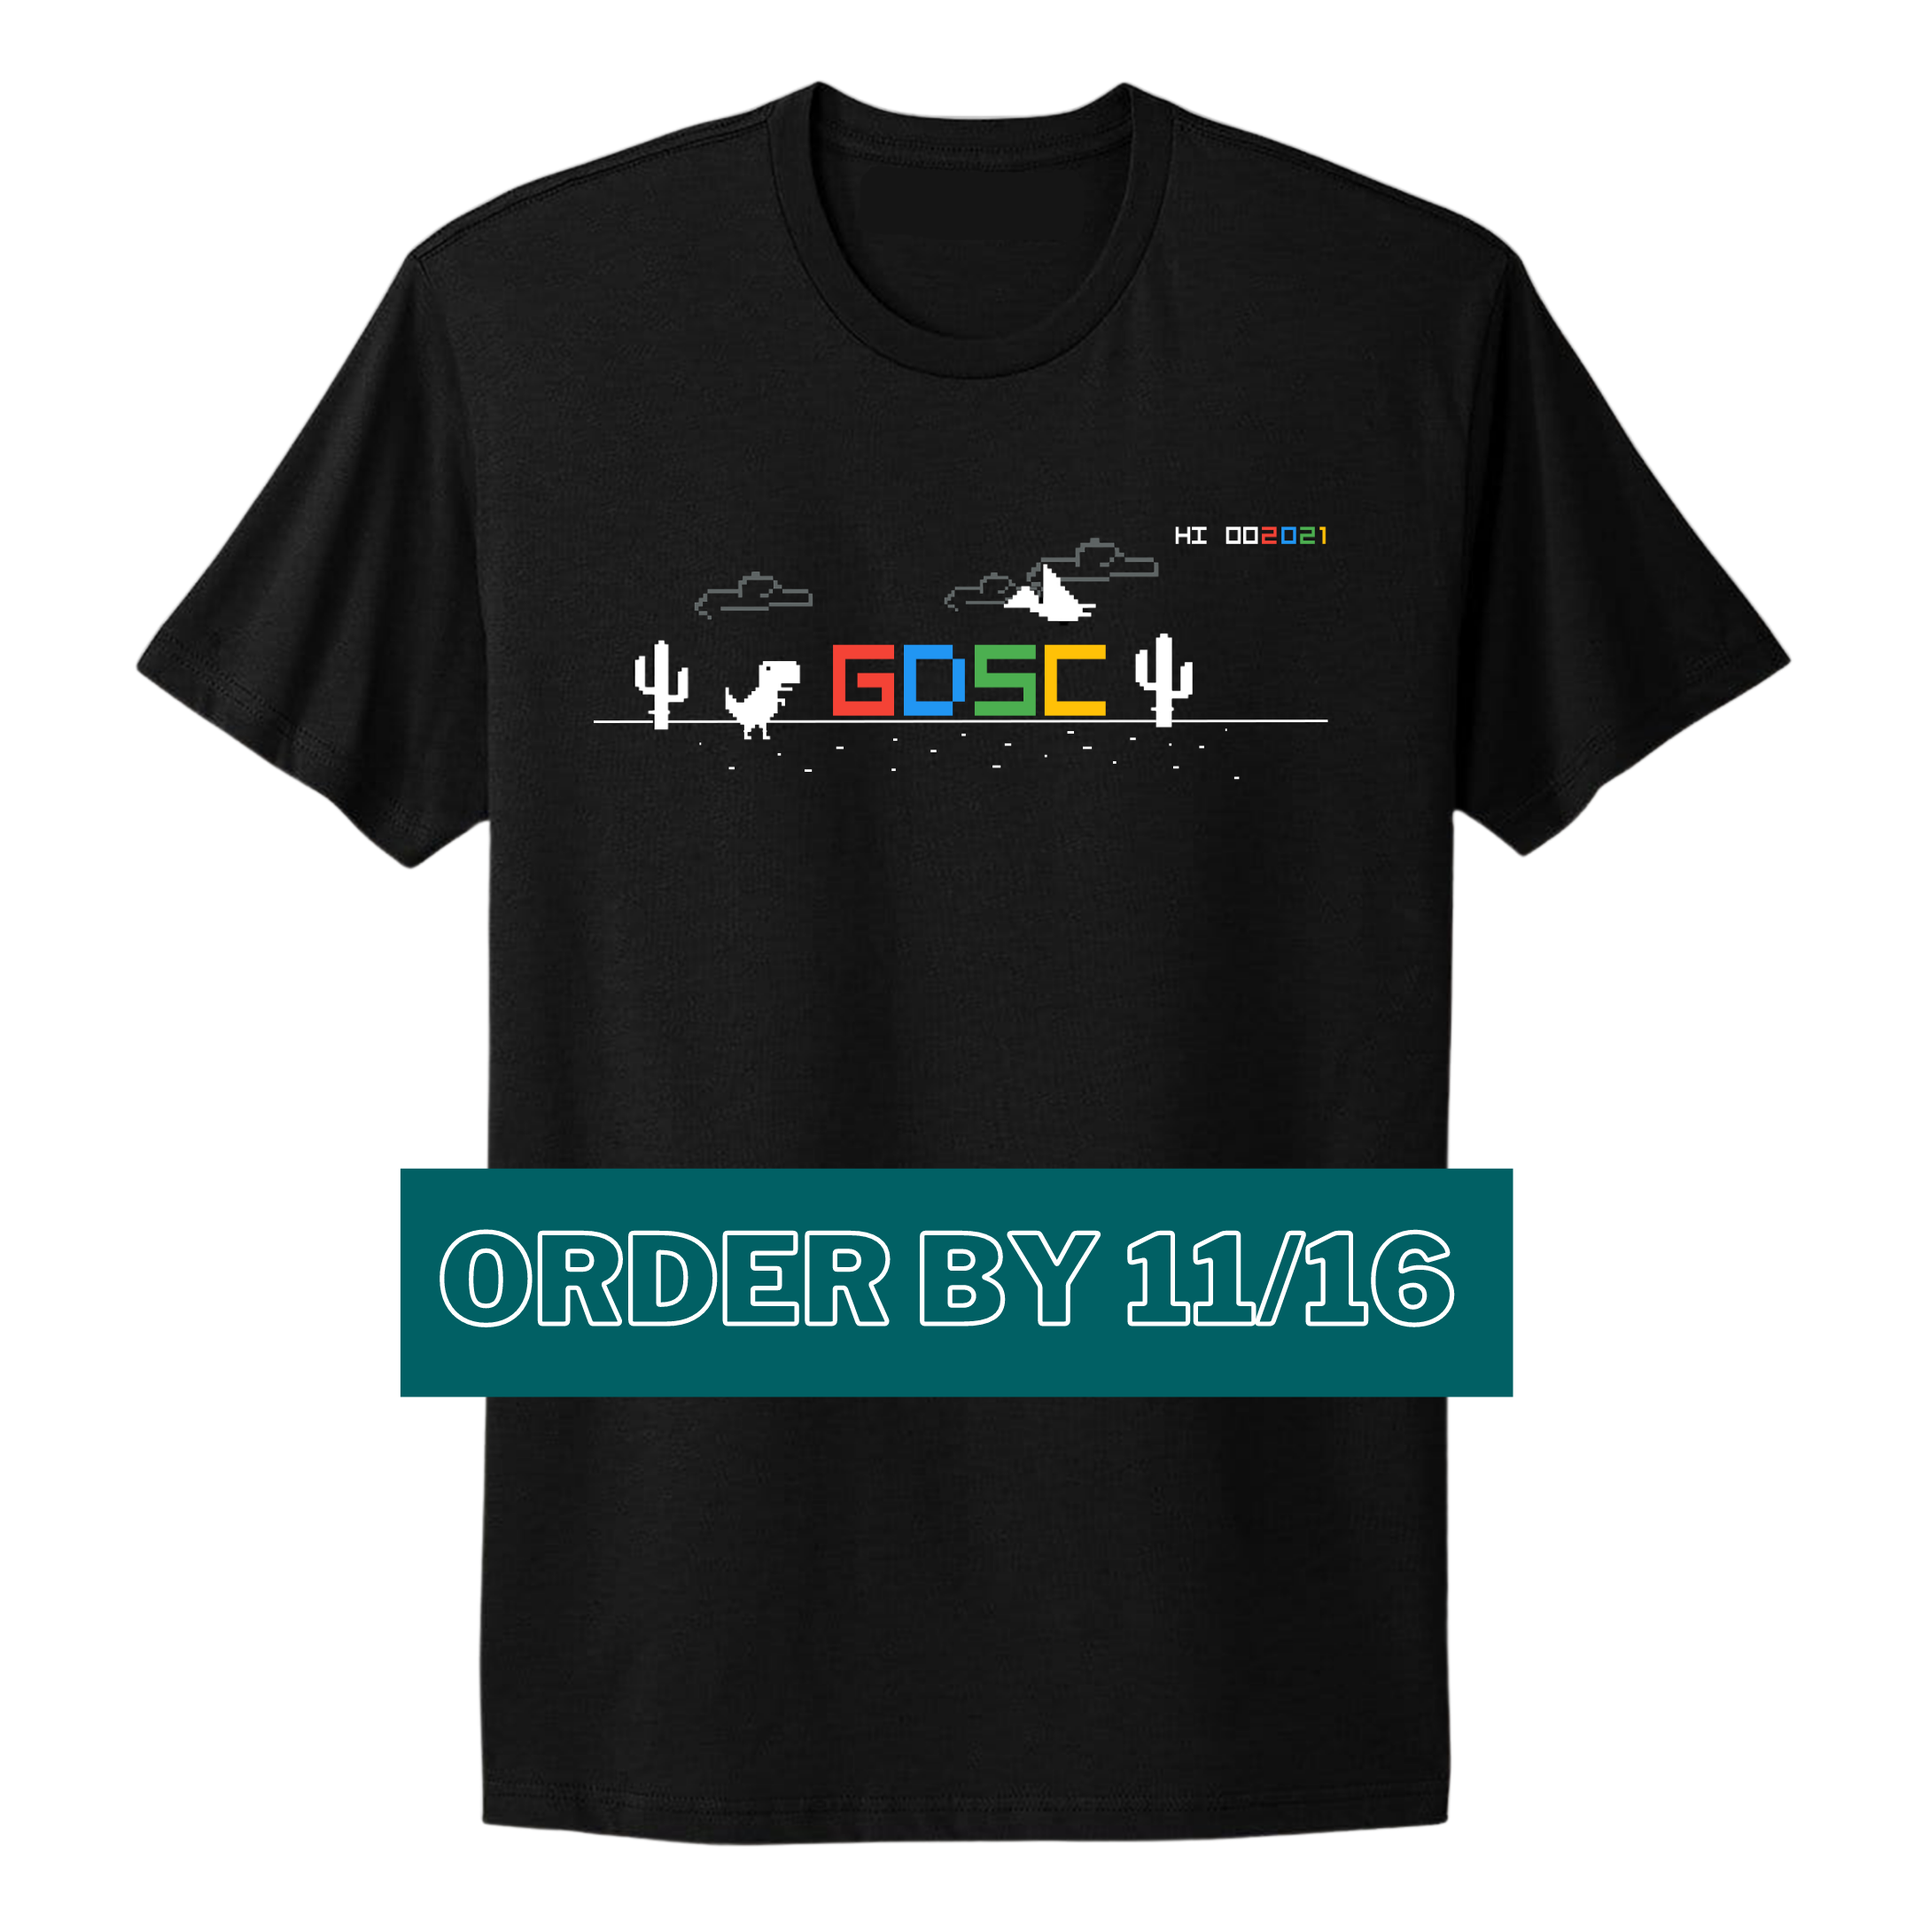
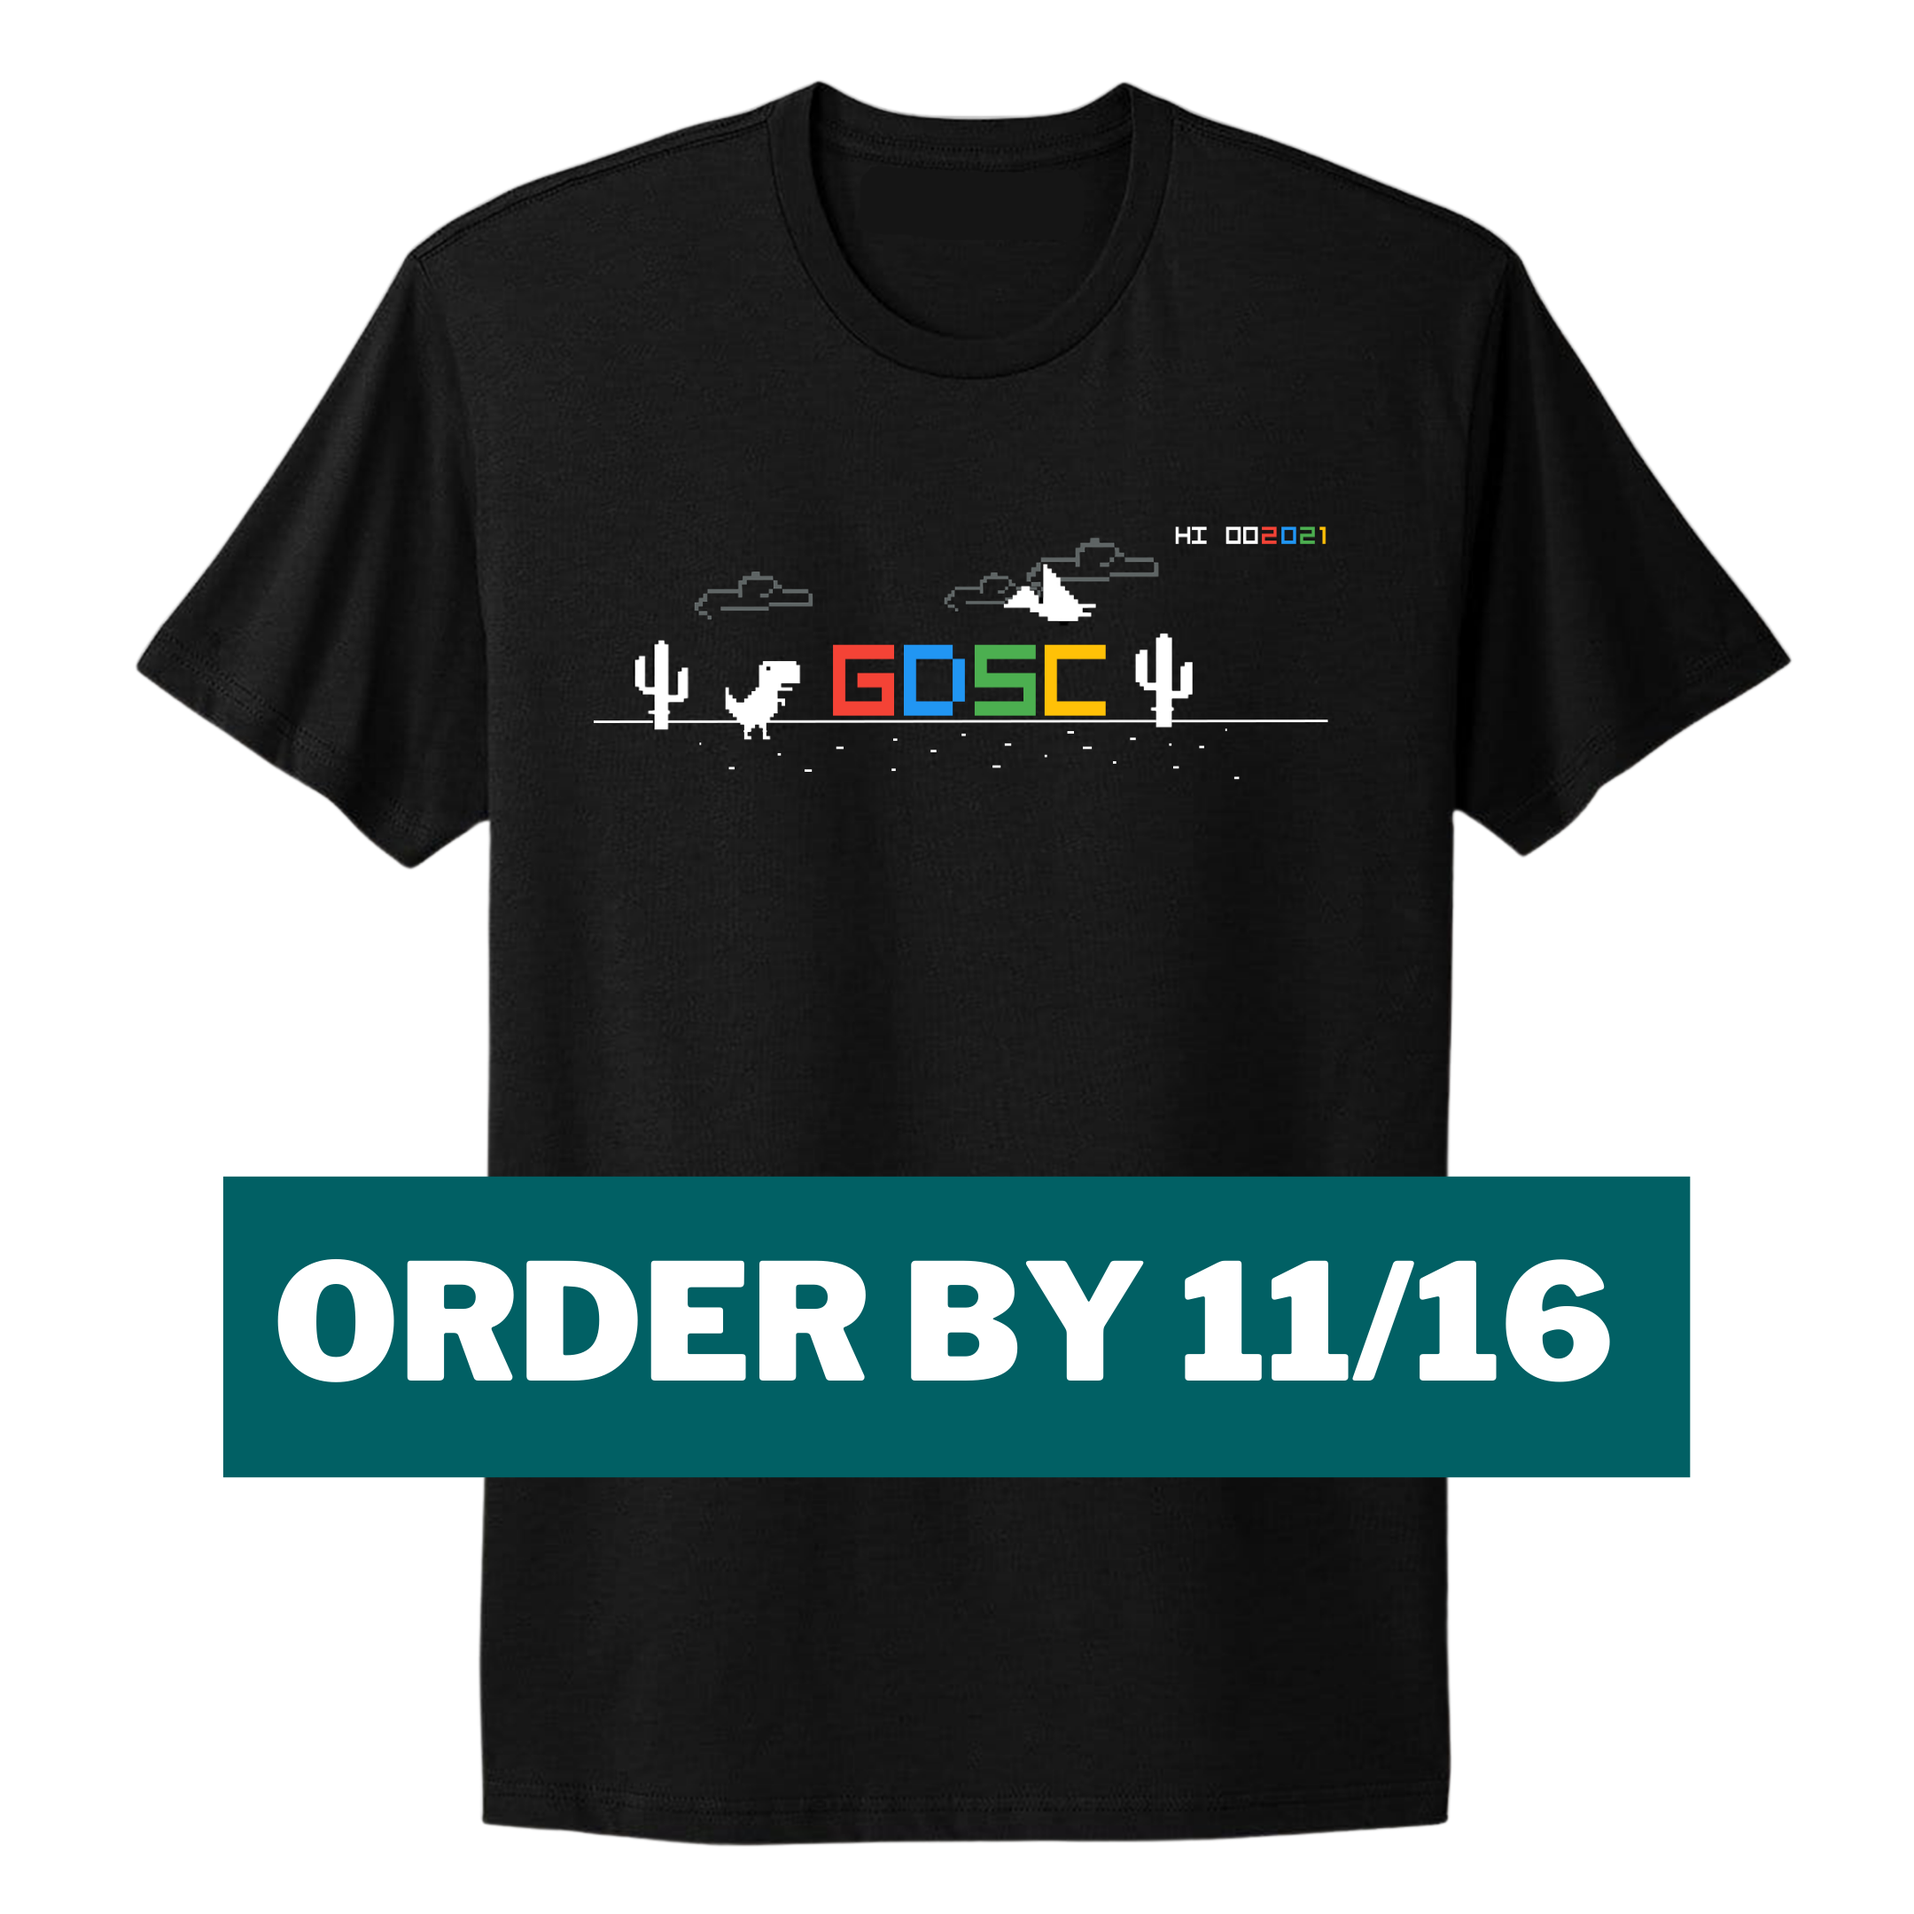
Added new shirt design and made it bigger on Desktop

Changed region(s): [[0.0931, 0.5894, 0.8995, 0.7755]]

diff --git a/index.html b/index.html
@@ -151,7 +151,7 @@
                     </span>
                 </div>
                 <div style="width: 332.4px; height: 190px; float: right;"> 
-                    <img src="/resources/events/merch.png" style="width: 236px; float: right;">
+                    <img src="/resources/events/merch.png" style="width: 260px; float: right;">
                     
                 </div></div>
             <span class="content">To get updates about our club, select a button below.</span><br>
@@ -163,7 +163,7 @@
                 <a href="https://discord.gg/Pk269nc" class="btn btn-secondary">Discord</a>
                 <a href="https://forms.gle/YrpCkaktvDqsdwc88" class="btn btn-secondary">Event Survey</a>
                 <a href="https://docs.google.com/document/d/1SpmIGn0aAn1VAfSK1O4TFz5eybVZ0CAmmr9mX-3KUPk/edit?usp=sharing" class="btn btn-secondary">Core Team Roles</a>
-                <a href="https://tinyurl.com/gdsc-shirt" style="position: relative; left: 297px" class="btn">Order Merch</a>
+                <a href="https://tinyurl.com/gdsc-shirt" style="position: relative; left: 287px" class="btn">Order Merch</a>
             </div>
         </div>
         <!-- <div class="img-wrapper">
